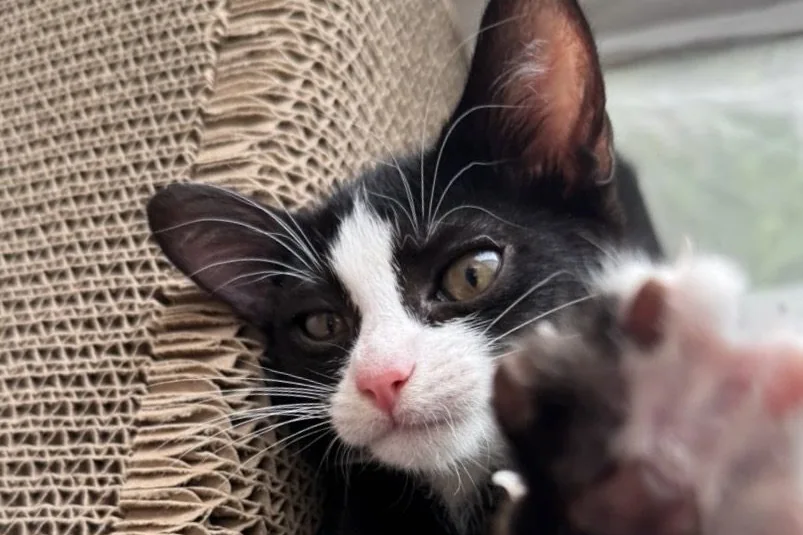
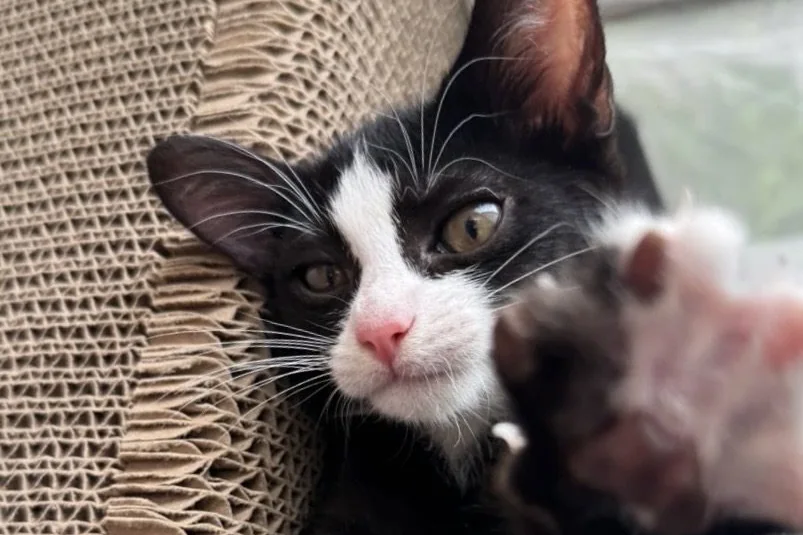
Tuxedo cat's ear pops out of the photo frame; fix header overflow on narrow phones

diff --git a/style.css b/style.css
@@ -59,8 +59,10 @@ header.site{
   .logo{gap:7px;}
   .logo img{width:38px;height:38px;}
   .logo small{font-size:.7rem;letter-spacing:.02em;}
-  .lang-toggle button{padding:0 10px;min-width:44px;}
+  .lang-toggle button{padding:0 8px;min-width:40px;}
 }
+@media(max-width:400px){ .logo small{font-size:.62rem;letter-spacing:.01em;gap:3px;} .nav-right{gap:6px;} }
+@media(max-width:365px){ .site-nav .logo small{display:none;} }
 .nav-right{display:flex;align-items:center;gap:8px;flex:0 0 auto;white-space:nowrap;}
 .site-nav .nav-links{display:flex;gap:2px;}
 .nav-links a{
@@ -361,7 +363,9 @@ html[lang=en] .quick-card .qc-title{font-size:8.6cqw;line-height:1.2;top:7.4%;}
   width:100%;max-width:100%;height:auto;aspect-ratio:3/2;border-radius:22px;position:relative;
   box-shadow:0 12px 28px rgba(226,70,45,.16);
 }
-.accent-wide .accent-photo img{object-position:50% 8%;}
+/* the cat's ear pops out above the frame: overlay shares the frame's scale and sits on top */
+.pop-wrap{position:relative;width:100%;margin-top:11.2%;}
+.cat-pop{position:absolute;left:0;top:-16.81%;width:100%;height:auto;z-index:2;pointer-events:none;}
 .accent-wide .accent-text h3{font-size:clamp(1.3rem,4.4vw,1.75rem);text-shadow:2px 2px 0 var(--pink);margin-bottom:8px;}
 .accent-wide .accent-text p{font-size:.95rem;}
 .motion-lines{

diff --git a/index.html b/index.html
@@ -160,9 +160,12 @@
       <p id="foster-p">Here&rsquo;s how the process works.<br>We&rsquo;d love to hear from you.</p>
     </div>
     <div class="accent-photo-row accent-wide">
-      <div class="accent-photo">
+      <div class="pop-wrap">
+        <div class="accent-photo">
         <img src="photos/foster-tuxedo.webp" alt="A kitten reaching out a paw" data-alt-en="A kitten reaching out a paw" data-alt-ja="手を伸ばす子猫" width="803" height="535" loading="lazy" decoding="async">
         <svg class="motion-lines" viewBox="0 0 100 80" aria-hidden="true"><path d="M18 6 L10 30"/><path d="M48 18 L28 40"/><path d="M80 44 L46 54"/></svg>
+      </div>
+        <img class="cat-pop" src="photos/foster-tuxedo-pop.webp" alt="" aria-hidden="true" width="803" height="160" loading="lazy" decoding="async">
       </div>
       <div class="accent-text">
         <h3 id="foster-accent-h3">Someone&rsquo;s next best friend</h3>
